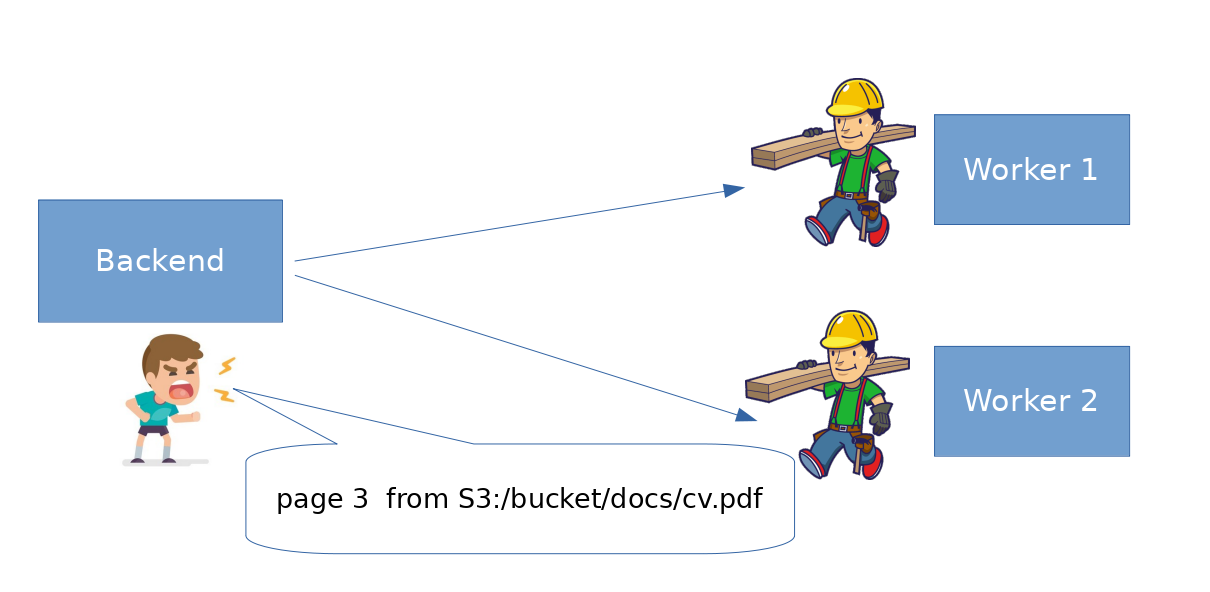
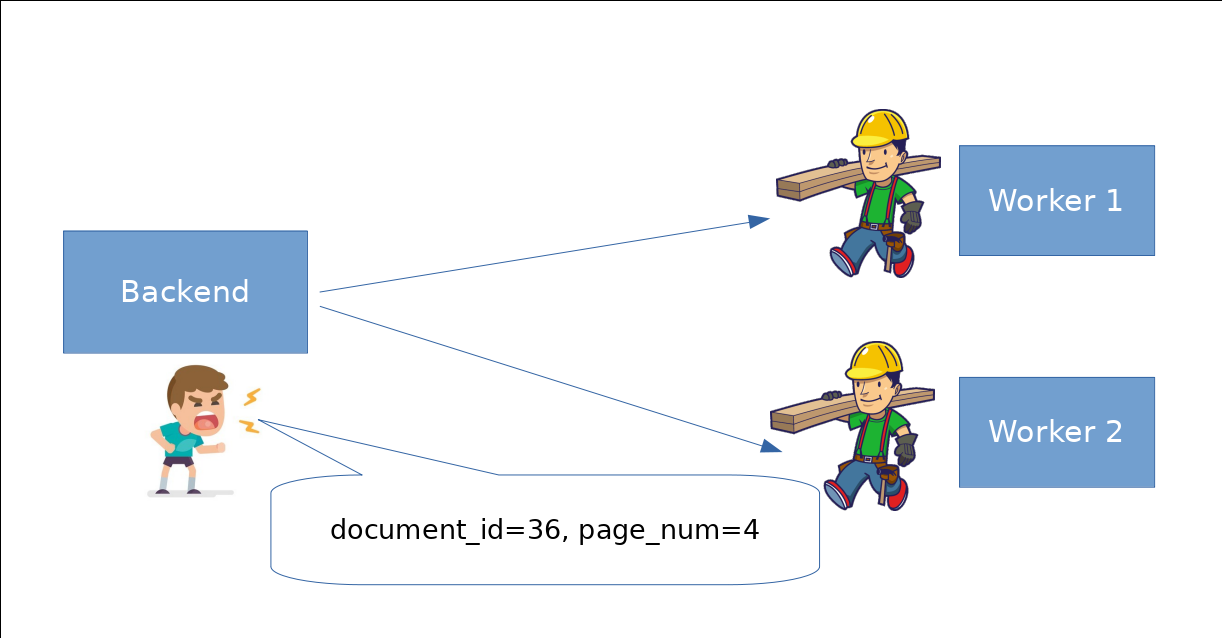
Documenation

diff --git a/docs/source/design.rst b/docs/source/design.rst
@@ -73,10 +73,9 @@ a S3 bucket.
     diving deep into technical details, this method is not scalable
     because it deplets backend's memory very quickly.
 
-    Backend instead passes documents by reference - as URL (address). Basically
-    it tells workers something like: 
-    Hey, guys, please OCR page 1 of document found at ``s3:/bucket/docs/1/user/doc_23.pdf``
-
+    Backend instead instructs workers which documents they need to OCR by telling workers
+    document id (it passes user id and language name as well). 
+    
 
 .. figure:: img/design2.png
 
